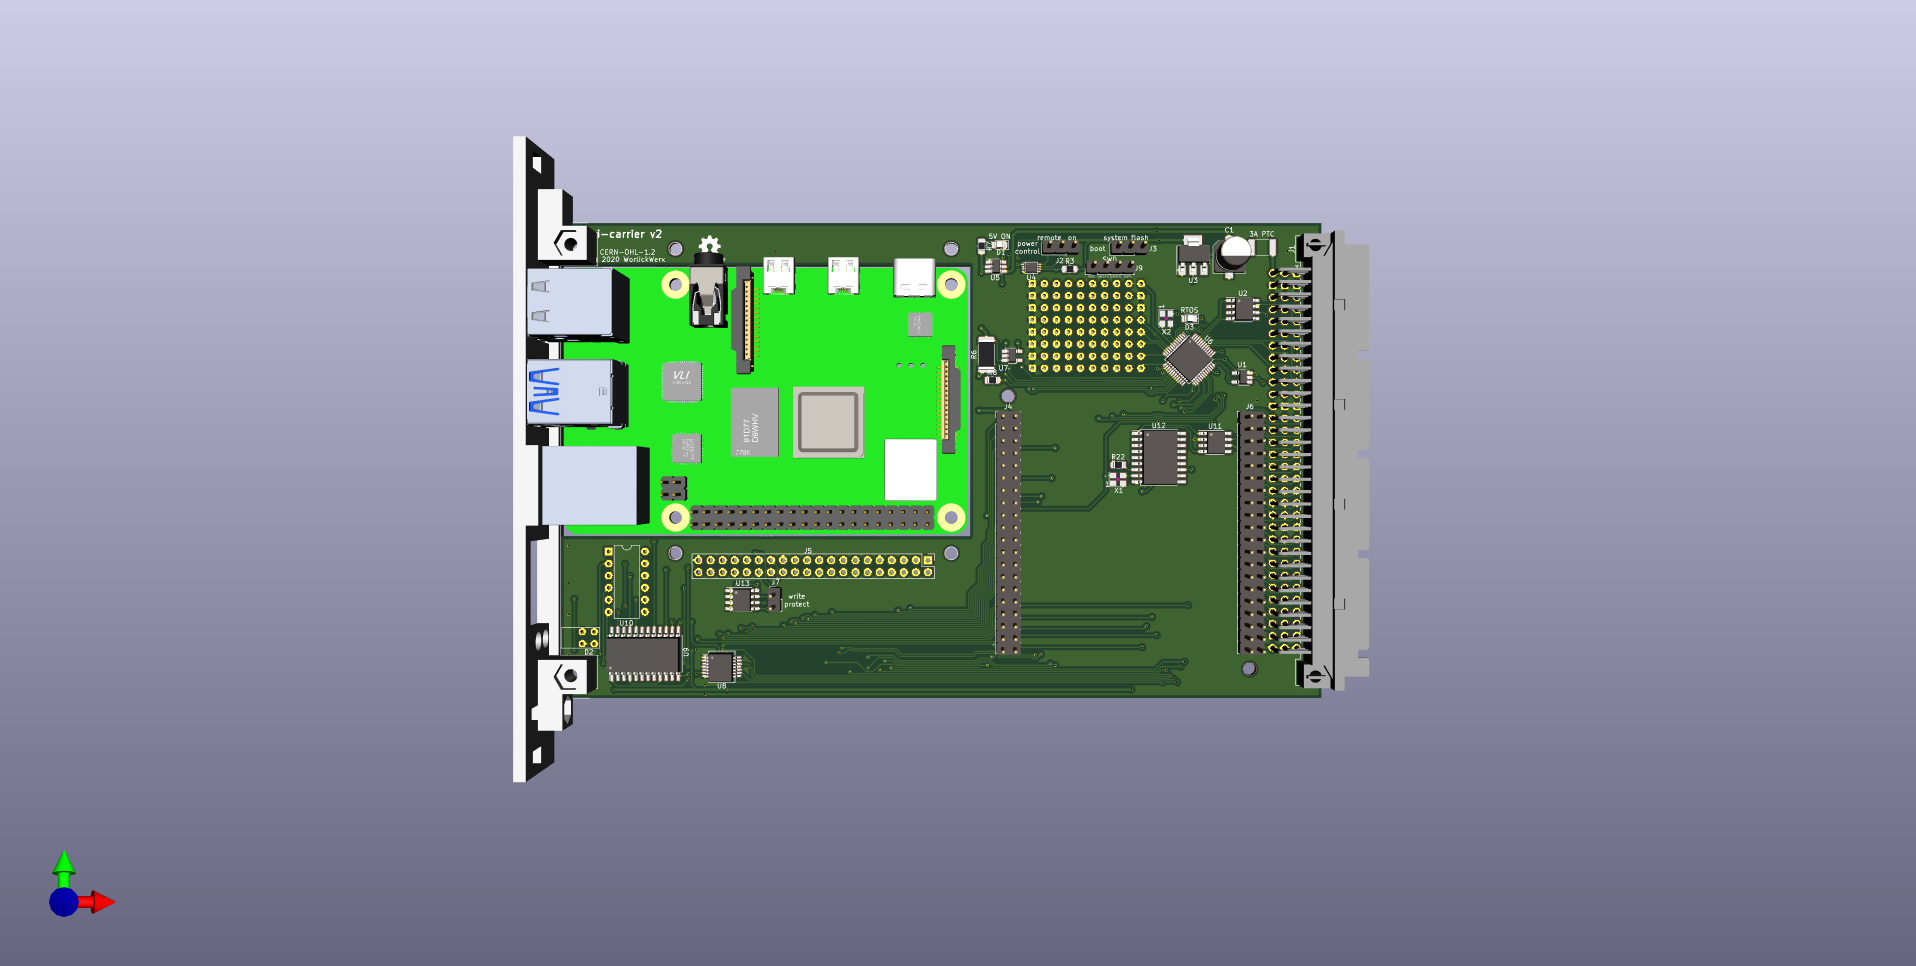
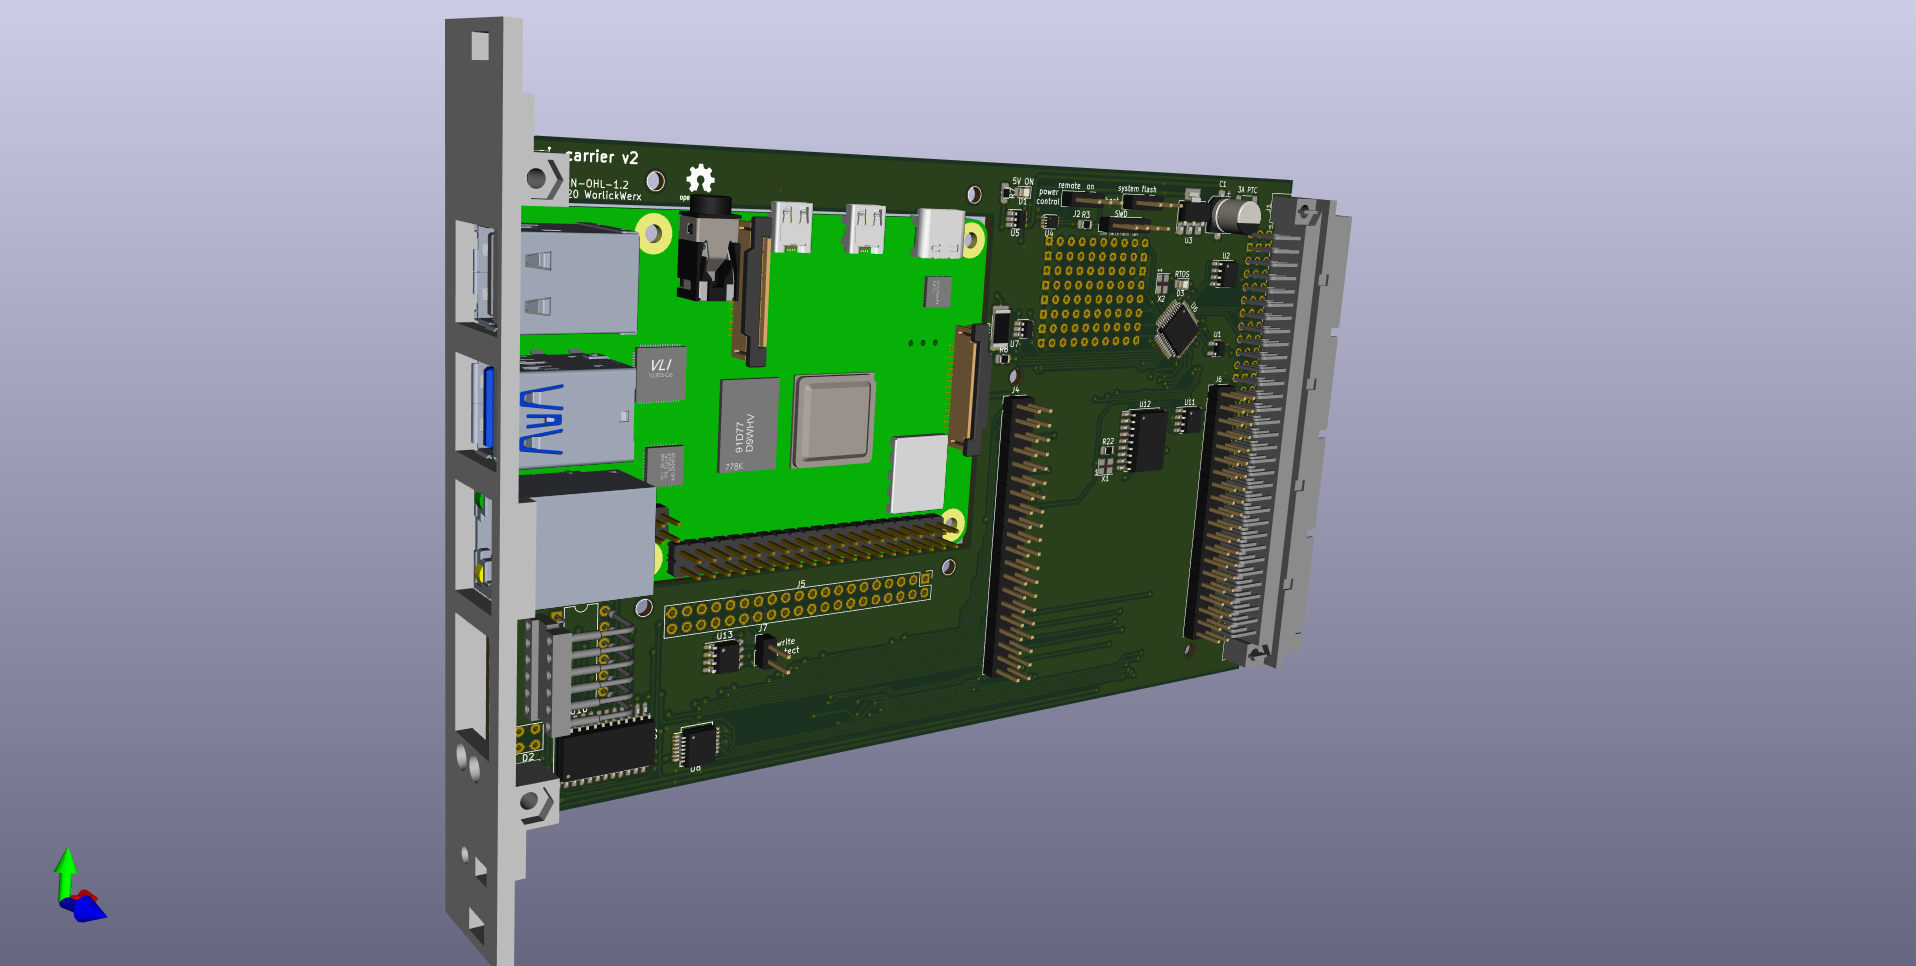
pi-carrier: update readme and 3d rendering

Changed region(s): [[0.2156, 0.0, 0.739, 1.0], [0.0308, 0.8696, 0.0616, 0.9627]]

diff --git a/hardware/pi-carrier/README.md b/hardware/pi-carrier/README.md
@@ -1,23 +1,8 @@
 ## pi-carrier
 
 This is an early attempt at a cluster compute module using the Raspberry
-Pi 4B.
+Pi 4B, integrated into the Eurocard form factor, with remote management
+via CAN bus and a 5x7 LED matrix.  A Mezzanine card provides access to Pi
+GPIO pins and additional backplane pins.
 
 ![Image of pi-parport latest](eurocard.png)
-
-This board uses only the following bus pins:
-* Power (5V and GND)
-* CAN bus
-* Geographic address GA0:4
-* RESET~
-
-It implements the following features
-* Service processor for remote management
-* LED Matrix display
-* pi power control
-* pi CAN adapter
-* pi EEPROM
-
-It does have headers that enable a mezzanine board to connect to some
-pi GPIO pins and unused bus pins designated USER13:21, USER23:30,
-RSV15:21, RSV23:30.
